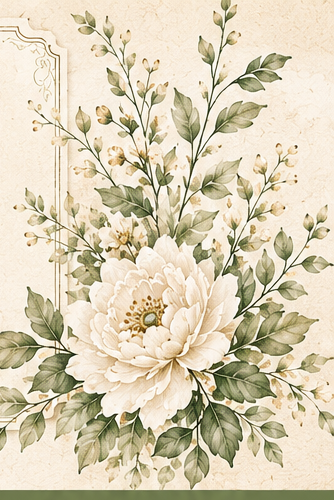
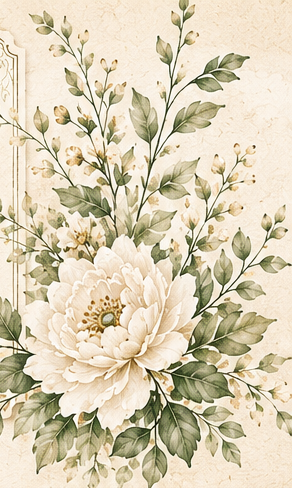
Add files via upload

diff --git a/index.html b/index.html
@@ -16,22 +16,22 @@ h1,h2,h3,.script,.counter-number,footer{font-family:'Cormorant Garamond',Georgia
 .script{font-family:Allura,cursive}
 .enter{position:fixed;inset:0;z-index:3000;display:grid;place-items:center;padding:20px;background:rgba(247,239,223,.98);transition:.7s ease}.enter.hidden{opacity:0;visibility:hidden}
 .enter-card{position:relative;width:min(720px,96vw);min-height:min(88vh,760px);display:grid;place-items:center;text-align:center;border:1px solid var(--gold);background:rgba(255,250,240,.8);box-shadow:0 24px 80px var(--shadow);overflow:hidden;padding:40px}
-.enter-card:before,.enter-card:after{content:"";position:absolute;width:52%;height:54%;background-size:contain;background-repeat:no-repeat;pointer-events:none}.enter-card:before{left:-7%;top:-3%;background-image:url('floral_left.png')}.enter-card:after{right:-7%;bottom:-3%;background-image:url('floral_right.png');background-position:right bottom}
+.enter-card:before,.enter-card:after{content:"";position:absolute;width:52%;height:54%;background-size:contain;background-repeat:no-repeat;pointer-events:none}.enter-card:before{left:-7%;top:-3%;background-image:url('floral_left.png');background-position:left top}.enter-card:after{right:-7%;top:-3%;bottom:auto;background-image:url('floral_right.png');background-position:right top}
 .enter-content{position:relative;z-index:2}.enter small{letter-spacing:.28em;color:var(--green);text-transform:uppercase}.enter h2{font-size:clamp(4rem,11vw,7rem);line-height:.72;font-weight:400;color:var(--green);margin:35px 0 22px}.enter .amp{display:block;font-size:.46em;color:var(--gold);margin:.12em 0}.enter p{font-family:'Cormorant Garamond';font-size:1.25rem;letter-spacing:.15em;text-transform:uppercase}.primary{display:inline-flex;align-items:center;justify-content:center;gap:10px;border:0;border-radius:9px;background:var(--green);color:#fff;padding:14px 28px;font:500 .95rem Montserrat;cursor:pointer;box-shadow:0 7px 18px rgba(64,82,54,.23)}
 .hero{position:relative;min-height:95vh;display:grid;place-items:center;text-align:center;padding:38px 20px 24px;overflow:hidden}.hero-floral{position:absolute;top:0;width:min(40vw,460px);height:72%;background-size:contain;background-repeat:no-repeat;z-index:1}.hero-floral.left{left:-20px;background-image:url('floral_left.png');background-position:left top}.hero-floral.right{right:-20px;background-image:url('floral_right.png');background-position:right top}
-.hero-card{position:relative;z-index:2;width:min(720px,92vw);padding:52px 38px 44px;border:0;background:rgba(255,250,240,.9);box-shadow:0 20px 60px rgba(79,74,56,.1)}.hero-card:before{display:none}.hero .eyebrow{letter-spacing:.28em;text-transform:uppercase;font-size:.78rem;color:var(--green)}.hero h1{font-size:clamp(4.8rem,11vw,8.8rem);line-height:.73;font-weight:400;color:var(--green);margin:34px 0 28px}.hero h1 span{display:block}.hero h1 .amp{font-size:.42em;color:var(--gold);margin:.14em 0}.date{font-family:'Cormorant Garamond';font-size:clamp(1.25rem,3vw,1.75rem);letter-spacing:.16em;text-transform:uppercase}.leaf{color:var(--green2);font-size:1.5rem;margin-top:10px}
+.hero-card{position:relative;z-index:2;width:min(720px,92vw);padding:52px 38px 44px;border:0;background:rgba(255,250,240,.9);box-shadow:0 20px 60px rgba(79,74,56,.1)}.hero-card:before,.hero-card:after{display:none!important;content:none!important}.hero .eyebrow{letter-spacing:.28em;text-transform:uppercase;font-size:.78rem;color:var(--green)}.hero h1{font-size:clamp(4.8rem,11vw,8.8rem);line-height:.73;font-weight:400;color:var(--green);margin:34px 0 28px}.hero h1 span{display:block}.hero h1 .amp{font-size:.42em;color:var(--gold);margin:.14em 0}.date{font-family:'Cormorant Garamond';font-size:clamp(1.25rem,3vw,1.75rem);letter-spacing:.16em;text-transform:uppercase}.leaf{color:var(--green2);font-size:1.5rem;margin-top:10px}
 nav{position:sticky;top:0;z-index:50;background:var(--green);box-shadow:0 7px 20px rgba(58,70,48,.18)}nav .inner{max-width:1100px;margin:auto;display:flex;justify-content:center;gap:28px;padding:13px 16px;flex-wrap:wrap}nav a{color:white;text-decoration:none;font-family:'Cormorant Garamond';font-size:1rem}
 section{position:relative;padding:74px 20px;overflow:hidden}.wrap{max-width:1050px;margin:auto;position:relative;z-index:2}.title{text-align:center;margin-bottom:36px}.title h2{font-family:Allura,cursive;font-weight:400;color:var(--green);font-size:clamp(3rem,6vw,4.8rem);line-height:1;margin:0;display:flex;align-items:center;justify-content:center;gap:14px}.title-icon,.card-icon{width:34px;height:34px;display:inline-flex;color:var(--gold);flex:0 0 auto}.title-icon svg,.card-icon svg{width:100%;height:100%;stroke:currentColor;fill:none;stroke-width:1.7;stroke-linecap:round;stroke-linejoin:round}.title p{margin:6px 0;color:#69715f}.title .orn{color:var(--green2);letter-spacing:.2em}
 .floral-corner{position:absolute;width:250px;height:330px;opacity:.7;background-size:contain;background-repeat:no-repeat;pointer-events:none}.floral-corner.l{left:-60px;top:10px;background-image:url('floral_left.png')}.floral-corner.r{right:-70px;bottom:-20px;background-image:url('floral_right.png');background-position:right bottom}
 .story-grid{display:grid;grid-template-columns:.85fr 1.2fr;gap:42px;align-items:center}.story-copy{text-align:center;font-family:'Cormorant Garamond';font-size:1.24rem}.story-copy .script{font-size:3.9rem;color:var(--green);display:block;margin-bottom:20px}.polaroids{display:grid;grid-template-columns:1fr 1fr;gap:10px;align-items:center}.polaroid{background:#fff;padding:11px 11px 34px;box-shadow:0 14px 35px rgba(58,58,42,.18);transform:rotate(-3deg)}.polaroid:nth-child(2){transform:rotate(3deg)}.polaroid img{width:100%;height:300px;object-fit:cover;display:block}
 .countdown{margin-top:46px;border:1px solid var(--line);background:rgba(255,250,240,.6);padding:24px}.countdown h3{text-align:center;font-family:Allura;font-size:3.2rem;font-weight:400;color:var(--green);margin:-10px 0 18px}.counter{display:grid;grid-template-columns:repeat(4,1fr)}.counter-item{text-align:center;border-right:1px solid var(--line)}.counter-item:last-child{border:0}.counter-number{font-size:3.15rem;color:var(--green);line-height:1}.counter-label{font-family:'Cormorant Garamond';font-size:.9rem;text-transform:uppercase}
 .dress-grid{display:grid;grid-template-columns:260px 1fr 260px;gap:20px;align-items:end}.dress-person{overflow:hidden}.dress-person img{width:100%;height:auto;display:block;mix-blend-mode:multiply;border:0}.dress-person.image-error:after{content:'Ilustración';display:grid;place-items:center;min-height:280px;border:1px solid var(--line);font-family:'Cormorant Garamond';font-size:1.4rem;color:var(--green);background:rgba(255,250,240,.55)}.dress-copy{text-align:center;padding:15px}.dress-copy h2{font-family:Allura;font-size:4rem;color:var(--green);font-weight:400;margin:0}.dress-copy p{font-family:'Cormorant Garamond';font-size:1.24rem;line-height:1.55;margin:12px 0}.dress-copy strong{font-size:1.4rem;color:var(--green)}
-.timeline{padding-top:38px}.timeline-track{position:relative;display:grid;grid-template-columns:repeat(5,1fr);gap:16px;max-width:1000px;margin:auto}.timeline-track:before{content:"";position:absolute;left:8%;right:8%;top:42px;height:1px;background:var(--gold);z-index:0}.timeline-item{position:relative;z-index:1;text-align:center;padding:0 8px}.timeline-icon{width:84px;height:84px;margin:0 auto 14px;border:1px solid var(--gold);border-radius:50%;background:var(--paper2);display:grid;place-items:center;color:var(--green)}.timeline-icon svg{width:43px;height:43px;stroke:currentColor;fill:none;stroke-width:1.5;stroke-linecap:round;stroke-linejoin:round}.timeline-item h3{margin:0 0 5px;color:var(--green);font-size:1.22rem;text-transform:uppercase;letter-spacing:.05em}.timeline-item p{margin:0;font-family:'Cormorant Garamond';font-size:1.08rem}.timeline-time{display:inline-block;margin-top:8px;color:var(--gold);font-weight:600;letter-spacing:.08em}
+.timeline{padding-top:38px}.timeline-track{position:relative;display:grid;grid-template-columns:repeat(4,1fr);gap:16px;max-width:1000px;margin:auto}.timeline-track:before{content:"";position:absolute;left:10%;right:10%;top:42px;height:1px;background:var(--gold);z-index:0}.timeline-item{position:relative;z-index:1;text-align:center;padding:0 8px}.timeline-icon{width:84px;height:84px;margin:0 auto 14px;border:1px solid var(--gold);border-radius:50%;background:var(--paper2);display:grid;place-items:center;color:var(--green)}.timeline-icon svg{width:43px;height:43px;stroke:currentColor;fill:none;stroke-width:1.5;stroke-linecap:round;stroke-linejoin:round}.timeline-item h3{margin:0 0 5px;color:var(--green);font-size:1.22rem;text-transform:uppercase;letter-spacing:.05em}.timeline-item p{margin:0;font-family:'Cormorant Garamond';font-size:1.08rem}.timeline-time{display:inline-block;margin-top:8px;color:var(--gold);font-weight:600;letter-spacing:.08em}
 .rsvp-box{border:1px solid var(--line);background:rgba(255,250,240,.78);padding:34px;box-shadow:0 18px 45px rgba(65,68,51,.08)}form{display:grid;grid-template-columns:1fr 1fr;gap:15px}.field{display:grid;gap:6px}.field.full{grid-column:1/-1}label{font-size:.85rem;color:var(--green)}input,select,textarea{width:100%;padding:13px;border:1px solid #cfc2a7;background:#fffaf1;border-radius:7px;font:inherit;color:var(--ink)}textarea{min-height:96px;resize:vertical}.submit{grid-column:1/-1}.status{text-align:center;grid-column:1/-1;color:var(--green);min-height:22px}
 .info-grid{display:grid;grid-template-columns:repeat(4,1fr);gap:10px}.info-card{border:1px solid var(--line);background:rgba(255,250,240,.72);text-align:center;padding:18px 14px;min-height:300px;display:flex;flex-direction:column}.info-card img{width:100%;height:140px;object-fit:cover;mix-blend-mode:multiply}.info-card h3{font-size:1.35rem;color:var(--green);margin:10px 0 4px;display:flex;align-items:center;justify-content:center;gap:8px}.card-icon{width:23px;height:23px}.info-card p{font-family:'Cormorant Garamond';font-size:1.05rem;flex:1}.btn{display:inline-block;padding:10px 16px;border-radius:6px;background:var(--green);color:#fff;text-decoration:none;font-size:.82rem}.gift-note{text-align:center;font-family:'Cormorant Garamond';font-size:1.2rem}.iban{margin:18px auto 0;max-width:620px;padding:16px;border:1px dashed var(--gold);background:#fffaf1;overflow-wrap:anywhere;font-family:Arial}
 .enter:not(.hidden)~.music-control{opacity:0;pointer-events:none}.music-control{transition:opacity .25s ease}footer{text-align:center;background:var(--green);color:white;padding:16px;font-style:italic}.music-control{position:fixed;right:18px;bottom:18px;z-index:1000;border:1px solid rgba(89,111,67,.35);border-radius:999px;background:rgba(255,250,240,.95);color:var(--green);padding:11px 15px;box-shadow:0 8px 26px rgba(58,65,48,.18);font:500 .76rem Montserrat;cursor:pointer}#ytMusic{position:fixed;left:-9999px;width:1px;height:1px}
-@media(max-width:820px){.timeline-track{grid-template-columns:repeat(2,1fr);gap:28px 12px}.timeline-track:before{display:none}.timeline-item:last-child{grid-column:1/-1;max-width:280px;margin:auto}nav .inner{gap:14px}nav a{font-size:.88rem}.hero{min-height:88vh}.hero-floral{width:55vw;height:48%}.hero-card{padding:45px 20px}.story-grid{grid-template-columns:1fr}.polaroid img{height:210px}.dress-grid{grid-template-columns:1fr 1fr}.dress-copy{grid-column:1/-1;grid-row:1}.dress-person{max-width:250px;margin:auto}.info-grid{grid-template-columns:1fr 1fr}section{padding:60px 16px}}
-@media(max-width:560px){.timeline-track{grid-template-columns:1fr}.timeline-item:last-child{grid-column:auto}.timeline-icon{width:76px;height:76px}.enter-card{min-height:82vh;padding:30px 20px}.enter-card:before,.enter-card:after{width:70%;height:43%}.hero-floral{width:65vw;height:40%}.hero-card{margin-top:30px}.hero h1{font-size:4.4rem}.counter-number{font-size:2.25rem}.counter-label{font-size:.7rem}.polaroids{gap:4px}.polaroid{padding:7px 7px 24px}.polaroid img{height:165px}.dress-grid{grid-template-columns:1fr 1fr;gap:4px}.dress-copy h2{font-size:3.2rem}.dress-copy p{font-size:1.08rem}.info-grid{grid-template-columns:1fr}form{grid-template-columns:1fr}.field.full,.submit,.status{grid-column:auto}.rsvp-box{padding:22px 15px}.music-control{right:10px;bottom:10px}}
+@media(max-width:820px){.timeline-track{grid-template-columns:repeat(2,1fr);gap:28px 12px}.timeline-track:before{display:none}nav .inner{gap:14px}nav a{font-size:.88rem}.hero{min-height:88vh}.hero-floral{width:55vw;height:48%}.hero-card{padding:45px 20px}.story-grid{grid-template-columns:1fr}.polaroid img{height:210px}.dress-grid{grid-template-columns:1fr 1fr}.dress-copy{grid-column:1/-1;grid-row:1}.dress-person{max-width:250px;margin:auto}.info-grid{grid-template-columns:1fr 1fr}section{padding:60px 16px}}
+@media(max-width:560px){.timeline-track{grid-template-columns:1fr}.timeline-icon{width:76px;height:76px}.enter-card{min-height:82vh;padding:30px 20px}.enter-card:before,.enter-card:after{width:70%;height:43%}.hero-floral{width:65vw;height:40%}.hero-card{margin-top:30px}.hero h1{font-size:4.4rem}.counter-number{font-size:2.25rem}.counter-label{font-size:.7rem}.polaroids{gap:4px}.polaroid{padding:7px 7px 24px}.polaroid img{height:165px}.dress-grid{grid-template-columns:1fr 1fr;gap:4px}.dress-copy h2{font-size:3.2rem}.dress-copy p{font-size:1.08rem}.info-grid{grid-template-columns:1fr}form{grid-template-columns:1fr}.field.full,.submit,.status{grid-column:auto}.rsvp-box{padding:22px 15px}.music-control{right:10px;bottom:10px}}
 </style>
 </head>
 <body>
@@ -39,19 +39,18 @@ section{position:relative;padding:74px 20px;overflow:hidden}.wrap{max-width:1050
 <header class="hero" id="inicio"><div class="hero-floral left"></div><div class="hero-floral right"></div><div class="hero-card"><div class="eyebrow">Nos casamos</div><h1><span>David</span><span class="amp">&</span><span>Estrella</span></h1><div class="date">3 de octubre de 2026</div></div></header>
 <nav><div class="inner"><a href="#historia">♡ Nuestra historia</a><a href="#cuenta">▣ Cuenta atrás</a><a href="#dress">♙ Dress code</a><a href="#horarios">◷ Horarios</a><a href="#info">⌖ Información</a><a href="#hoteles">⌂ Alojamiento</a><a href="#regalo">♧ Regalos</a><a href="#confirmar">✉ Confirma tu asistencia</a></div></nav>
 <main>
-<section id="historia"><div class="floral-corner l"></div><div class="floral-corner r"></div><div class="wrap"><div class="story-grid"><div class="story-copy"><span class="script">Nuestra historia</span><p>Dos caminos que se cruzaron sin buscarse y que hoy eligen caminar juntos para siempre.</p><p><em>Gracias por acompañarnos en este nuevo comienzo.</em></p></div><div class="polaroids"><figure class="polaroid"><img src="https://images.unsplash.com/photo-1522673607200-164d1b6ce486?auto=format&fit=crop&w=900&q=85" alt="Pareja abrazada"></figure><figure class="polaroid"><img src="https://images.unsplash.com/photo-1523438885200-e635ba2c371e?auto=format&fit=crop&w=900&q=85" alt="Pareja en el campo"></figure></div></div><div class="countdown" id="cuenta"><h3>Cuenta atrás</h3><div class="counter"><div class="counter-item"><div class="counter-number" id="days">0</div><div class="counter-label">Días</div></div><div class="counter-item"><div class="counter-number" id="hours">0</div><div class="counter-label">Horas</div></div><div class="counter-item"><div class="counter-number" id="minutes">0</div><div class="counter-label">Minutos</div></div><div class="counter-item"><div class="counter-number" id="seconds">0</div><div class="counter-label">Segundos</div></div></div></div></div></section>
+<section id="historia"><div class="floral-corner l"></div><div class="floral-corner r"></div><div class="wrap"><div class="story-grid"><div class="story-copy"><span class="script">Nuestra historia</span><p>Dos caminos que se cruzaron sin buscarse y que hoy eligen caminar juntos para siempre.</p><p><em>Gracias por acompañarnos en este nuevo comienzo.</em></p></div><div class="polaroids"><figure class="polaroid"><img src="foto-david-estrella-1.jpg" alt="David y Estrella celebrando su compromiso"></figure><figure class="polaroid"><img src="foto-david-estrella-2.jpg" alt="David y Estrella celebrando su compromiso"></figure></div></div><div class="countdown" id="cuenta"><h3>Cuenta atrás</h3><div class="counter"><div class="counter-item"><div class="counter-number" id="days">0</div><div class="counter-label">Días</div></div><div class="counter-item"><div class="counter-number" id="hours">0</div><div class="counter-label">Horas</div></div><div class="counter-item"><div class="counter-number" id="minutes">0</div><div class="counter-label">Minutos</div></div><div class="counter-item"><div class="counter-number" id="seconds">0</div><div class="counter-label">Segundos</div></div></div></div></div></section>
 <section id="dress"><div class="floral-corner l"></div><div class="floral-corner r"></div><div class="wrap"><div class="dress-grid"><div class="dress-person"><img src="dress_man.png" width="215" height="295" loading="eager" alt="Ilustración de hombre con traje" onerror="this.style.display='none';this.parentElement.classList.add('image-error')"></div><div class="dress-copy"><h2>Dress code</h2><p><strong>Poneos guapos, que no todos los días nos casamos.</strong></p><p>Elegid vuestro mejor conjunto y venid cómodos para disfrutar de principio a fin.</p><p>Lo importante es celebrar, bailar y pasarlo genial juntos.</p></div><div class="dress-person"><img src="dress_woman.png" width="230" height="300" loading="eager" alt="Ilustración de mujer con vestido elegante" onerror="this.style.display='none';this.parentElement.classList.add('image-error')"></div></div></div></section>
-<section id="horarios" class="timeline"><div class="wrap"><div class="title"><h2>El día de la boda</h2><p>El horario definitivo se añadirá próximamente.</p><div class="orn">❧ ❧ ❧</div></div><div class="timeline-track">
-<div class="timeline-item"><div class="timeline-icon"><svg viewBox="0 0 64 64"><path d="M10 30 32 10l22 20"/><path d="M16 27v27h32V27"/><path d="M27 54V38h10v16"/><path d="M25 22h14M32 10V3M28 7h8"/></svg></div><h3>Ceremonia</h3><p>El comienzo de nuestro gran día.</p><span class="timeline-time">Hora por confirmar</span></div>
-<div class="timeline-item"><div class="timeline-icon"><svg viewBox="0 0 64 64"><path d="M14 12h15l-3 20c-.7 5-4 8-8 8s-7.3-3-8-8l4-20Z"/><path d="M18 40v12M12 52h12"/><path d="M35 12h15l4 20c-.7 5-4 8-8 8s-7.3-3-8-8l-3-20Z"/><path d="M46 40v12M40 52h12"/><path d="m25 18 14 9"/></svg></div><h3>Cóctel</h3><p>Brindaremos juntos por este día.</p><span class="timeline-time">Hora por confirmar</span></div>
-<div class="timeline-item"><div class="timeline-icon"><svg viewBox="0 0 64 64"><circle cx="32" cy="32" r="17"/><circle cx="32" cy="32" r="11"/><path d="M8 12v40M4 12v16h8V12M53 12v40M49 12c0 9 8 9 8 0"/></svg></div><h3>Banquete</h3><p>Comida, risas y buenos momentos.</p><span class="timeline-time">Hora por confirmar</span></div>
-<div class="timeline-item"><div class="timeline-icon"><svg viewBox="0 0 64 64"><path d="M13 49h38M17 49V34h30v15M21 34V22h22v12M26 22V12h12v10"/><path d="M32 12V7M29 7h6"/><path d="M17 40h30M21 28h22"/></svg></div><h3>Tarta y brindis</h3><p>Un momento dulce para compartir.</p><span class="timeline-time">Hora por confirmar</span></div>
-<div class="timeline-item"><div class="timeline-icon"><svg viewBox="0 0 64 64"><circle cx="32" cy="32" r="22"/><path d="M10 32h44M32 10c7 7 10 14 10 22s-3 15-10 22M32 10c-7 7-10 14-10 22s3 15 10 22M17 18c9 5 21 5 30 0M17 46c9-5 21-5 30 0"/></svg></div><h3>Fiesta</h3><p>Baile y celebración hasta el final.</p><span class="timeline-time">Hora por confirmar</span></div>
+<section id="horarios" class="timeline"><div class="wrap"><div class="title"><h2>El día de la boda</h2><p>Estos son los momentos principales de nuestro gran día.</p><div class="orn">❧ ❧ ❧</div></div><div class="timeline-track">
+<div class="timeline-item"><div class="timeline-icon"><svg viewBox="0 0 64 64"><path d="M10 30 32 10l22 20"/><path d="M16 27v27h32V27"/><path d="M27 54V38h10v16"/><path d="M25 22h14M32 10V3M28 7h8"/></svg></div><h3>Ceremonia</h3><p>El comienzo de nuestro gran día.</p><span class="timeline-time">13:00</span></div>
+<div class="timeline-item"><div class="timeline-icon"><svg viewBox="0 0 64 64"><path d="M14 12h15l-3 20c-.7 5-4 8-8 8s-7.3-3-8-8l4-20Z"/><path d="M18 40v12M12 52h12"/><path d="M35 12h15l4 20c-.7 5-4 8-8 8s-7.3-3-8-8l-3-20Z"/><path d="M46 40v12M40 52h12"/><path d="m25 18 14 9"/></svg></div><h3>Cóctel</h3><p>Brindaremos juntos por este día.</p><span class="timeline-time">14:00</span></div>
+<div class="timeline-item"><div class="timeline-icon"><svg viewBox="0 0 64 64"><circle cx="32" cy="32" r="17"/><circle cx="32" cy="32" r="11"/><path d="M8 12v40M4 12v16h8V12M53 12v40M49 12c0 9 8 9 8 0"/></svg></div><h3>Comida</h3><p>Comida, risas y buenos momentos.</p><span class="timeline-time">15:30</span></div>
+<div class="timeline-item"><div class="timeline-icon"><svg viewBox="0 0 64 64"><circle cx="32" cy="32" r="22"/><path d="M10 32h44M32 10c7 7 10 14 10 22s-3 15-10 22M32 10c-7 7-10 14-10 22s3 15 10 22M17 18c9 5 21 5 30 0M17 46c9-5 21-5 30 0"/></svg></div><h3>Fiesta</h3><p>Baile y celebración hasta el final.</p><span class="timeline-time">17:00</span></div>
 </div></div></section>
 
 <section id="info"><div class="wrap"><div class="info-grid"><article class="info-card"><img src="location_tile.png" alt="Ubicación"><h3><span class="card-icon" aria-hidden="true"><svg viewBox="0 0 24 24"><path d="M12 21s6-5.2 6-11a6 6 0 1 0-12 0c0 5.8 6 11 6 11Z"/><circle cx="12" cy="10" r="2"/></svg></span>¿Dónde?</h3><p>Finca La Torreta<br>Sant Joan d'Alacant</p><a class="btn" target="_blank" rel="noopener" href="https://www.google.com/maps/search/?api=1&query=Finca+La+Torreta+Avenida+de+Elda+5+Sant+Joan+d%27Alacant">Ver ubicación</a></article><article class="info-card"><img src="hotel_tile.png" alt="Hoteles"><h3><span class="card-icon" aria-hidden="true"><svg viewBox="0 0 24 24"><path d="M3 11 12 3l9 8"/><path d="M5 10v11h14V10"/><path d="M9 21v-7h6v7"/></svg></span>Alojamiento</h3><p>Opciones de alojamiento cercanas al evento.</p><a class="btn" href="#hoteles">Ver hoteles</a></article><article class="info-card" id="regalo"><img src="gift_tile.png" alt="Regalos"><h3><span class="card-icon" aria-hidden="true"><svg viewBox="0 0 24 24"><rect x="3" y="8" width="18" height="13" rx="1"/><path d="M12 8v13M3 12h18"/><path d="M12 8H8.5A2.5 2.5 0 1 1 12 4.5V8Zm0 0h3.5A2.5 2.5 0 1 0 12 4.5V8Z"/></svg></span>Regalos</h3><p>Nuestro mejor regalo es vuestra compañía.</p><a class="btn" href="#detalle-regalo">Ver detalles</a></article><article class="info-card"><img src="gallery_tile.png" alt="Galería"><h3><span class="card-icon" aria-hidden="true"><svg viewBox="0 0 24 24"><rect x="3" y="6" width="18" height="15" rx="2"/><path d="M8 6l1.2-2h5.6L16 6"/><circle cx="12" cy="13" r="4"/></svg></span>Galería</h3><p>Algunos momentos que guardamos en el corazón.</p><a class="btn" href="#historia">Ver galería</a></article></div></div></section>
 <section id="hoteles"><div class="wrap"><div class="title"><h2><span class="title-icon" aria-hidden="true"><svg viewBox="0 0 24 24"><path d="M3 11 12 3l9 8"/><path d="M5 10v11h14V10"/><path d="M9 21v-7h6v7"/></svg></span>Alojamiento</h2><p>Opciones cercanas para descansar después de celebrarlo todo.</p></div><div class="info-grid" style="grid-template-columns:repeat(2,1fr);max-width:760px;margin:auto"><article class="info-card" style="min-height:220px"><h3>Hotel Alicante Golf</h3><p>Hotel de 4 estrellas en Playa de San Juan.</p><a class="btn" target="_blank" rel="noopener" href="https://www.google.com/maps/search/?api=1&query=Hotel+Alicante+Golf">Ver en Google Maps</a></article><article class="info-card" style="min-height:220px"><h3>Port Alicante City & Beach</h3><p>Hotel de 4 estrellas cercano a Playa de San Juan.</p><a class="btn" target="_blank" rel="noopener" href="https://www.google.com/maps/search/?api=1&query=Port+Alicante+City+%26+Beach">Ver en Google Maps</a></article></div></div></section>
-<section id="detalle-regalo"><div class="wrap"><div class="title"><h2><span class="title-icon" aria-hidden="true"><svg viewBox="0 0 24 24"><rect x="3" y="8" width="18" height="13" rx="1"/><path d="M12 8v13M3 12h18"/><path d="M12 8H8.5A2.5 2.5 0 1 1 12 4.5V8Zm0 0h3.5A2.5 2.5 0 1 0 12 4.5V8Z"/></svg></span>Regalo</h2><p>Lo más importante es compartir este día con vosotros.</p></div><div class="gift-note"><p>Para quienes además queráis ayudarnos a comenzar esta nueva etapa, os dejamos nuestro número de cuenta.</p><div class="iban">ES00 0000 0000 0000 0000 0000</div><small>Número provisional. Sustituidlo por el IBAN definitivo.</small></div></div></section>
+<section id="detalle-regalo"><div class="wrap"><div class="title"><h2><span class="title-icon" aria-hidden="true"><svg viewBox="0 0 24 24"><rect x="3" y="8" width="18" height="13" rx="1"/><path d="M12 8v13M3 12h18"/><path d="M12 8H8.5A2.5 2.5 0 1 1 12 4.5V8Zm0 0h3.5A2.5 2.5 0 1 0 12 4.5V8Z"/></svg></span>Regalo</h2></div><div class="gift-note"><p>Vuestra presencia es el mejor regalo que podemos recibir.</p><p>Si además queréis tener un detalle con nosotros para ayudarnos a empezar esta nueva etapa o disfrutar de nuestra luna de miel, os dejamos nuestro número de cuenta:</p><div class="iban">ES56 1465 0100 98 20505002922</div></div></div></section>
 <section id="confirmar"><div class="floral-corner l"></div><div class="floral-corner r"></div><div class="wrap rsvp-box"><div class="title"><h2><span class="title-icon" aria-hidden="true"><svg viewBox="0 0 24 24"><rect x="3" y="5" width="18" height="14" rx="2"/><path d="m4 7 8 6 8-6"/></svg></span>Confirma tu asistencia</h2><p>Tu presencia es nuestro mejor regalo, pero necesitamos saber si podrás acompañarnos.</p><div class="orn">❧ ❧ ❧</div></div><form id="rsvp"><div class="field"><label for="nombre">Nombre y apellidos</label><input id="nombre" name="nombre" required></div><div class="field"><label for="asistencia">¿Podrás acompañarnos?</label><select id="asistencia" name="asistencia" required><option value="">Selecciona una opción</option><option value="Sí">Sí, allí estaré</option><option value="No">No podré asistir</option></select></div><div class="field"><label for="acompanantes">Número total de asistentes</label><input id="acompanantes" name="acompanantes" type="number" min="1" value="1"></div><div class="field"><label for="ninos">¿Vendrán niños?</label><select id="ninos" name="ninos" required><option value="">Selecciona una opción</option><option value="No">No</option><option value="Sí">Sí</option></select></div><div class="field"><label for="numero_ninos">Número de niños</label><input id="numero_ninos" name="numero_ninos" type="number" min="0" value="0"></div><div class="field"><label for="alergias">Alergias o menú especial</label><input id="alergias" name="alergias" placeholder="Déjalo en blanco si no hay ninguna"></div><button class="primary submit" type="submit">✉ Enviar confirmación</button><div class="status" id="status"></div></form></div></section>
 </main>
 <footer>Gracias por ser parte de nuestra historia ♡</footer>
@@ -68,7 +67,7 @@ document.getElementById('enterBtn').addEventListener('click',()=>{document.getEl
 if(sessionStorage.getItem('weddingOpened')==='1'){document.getElementById('enterScreen').classList.add('hidden');}
 control.addEventListener('click',()=>{wantsMusic=true;if(!ready||!player){setMusicLabel();return;}const state=player.getPlayerState();if(state===YT.PlayerState.PLAYING){player.pauseVideo();isPlaying=false;}else{player.playVideo();isPlaying=true;}setMusicLabel();});
 setMusicLabel();
-function updateCountdown(){const target=new Date('2026-10-03T18:00:00+02:00').getTime();const diff=Math.max(0,target-Date.now());days.textContent=Math.floor(diff/86400000);hours.textContent=Math.floor(diff%86400000/3600000);minutes.textContent=Math.floor(diff%3600000/60000);seconds.textContent=Math.floor(diff%60000/1000)}updateCountdown();setInterval(updateCountdown,1000);
+function updateCountdown(){const target=new Date('2026-10-03T13:00:00+02:00').getTime();const diff=Math.max(0,target-Date.now());days.textContent=Math.floor(diff/86400000);hours.textContent=Math.floor(diff%86400000/3600000);minutes.textContent=Math.floor(diff%3600000/60000);seconds.textContent=Math.floor(diff%60000/1000)}updateCountdown();setInterval(updateCountdown,1000);
 const api=document.createElement('script');api.src='https://www.youtube.com/iframe_api';document.head.appendChild(api);
 </script>
 </body>
